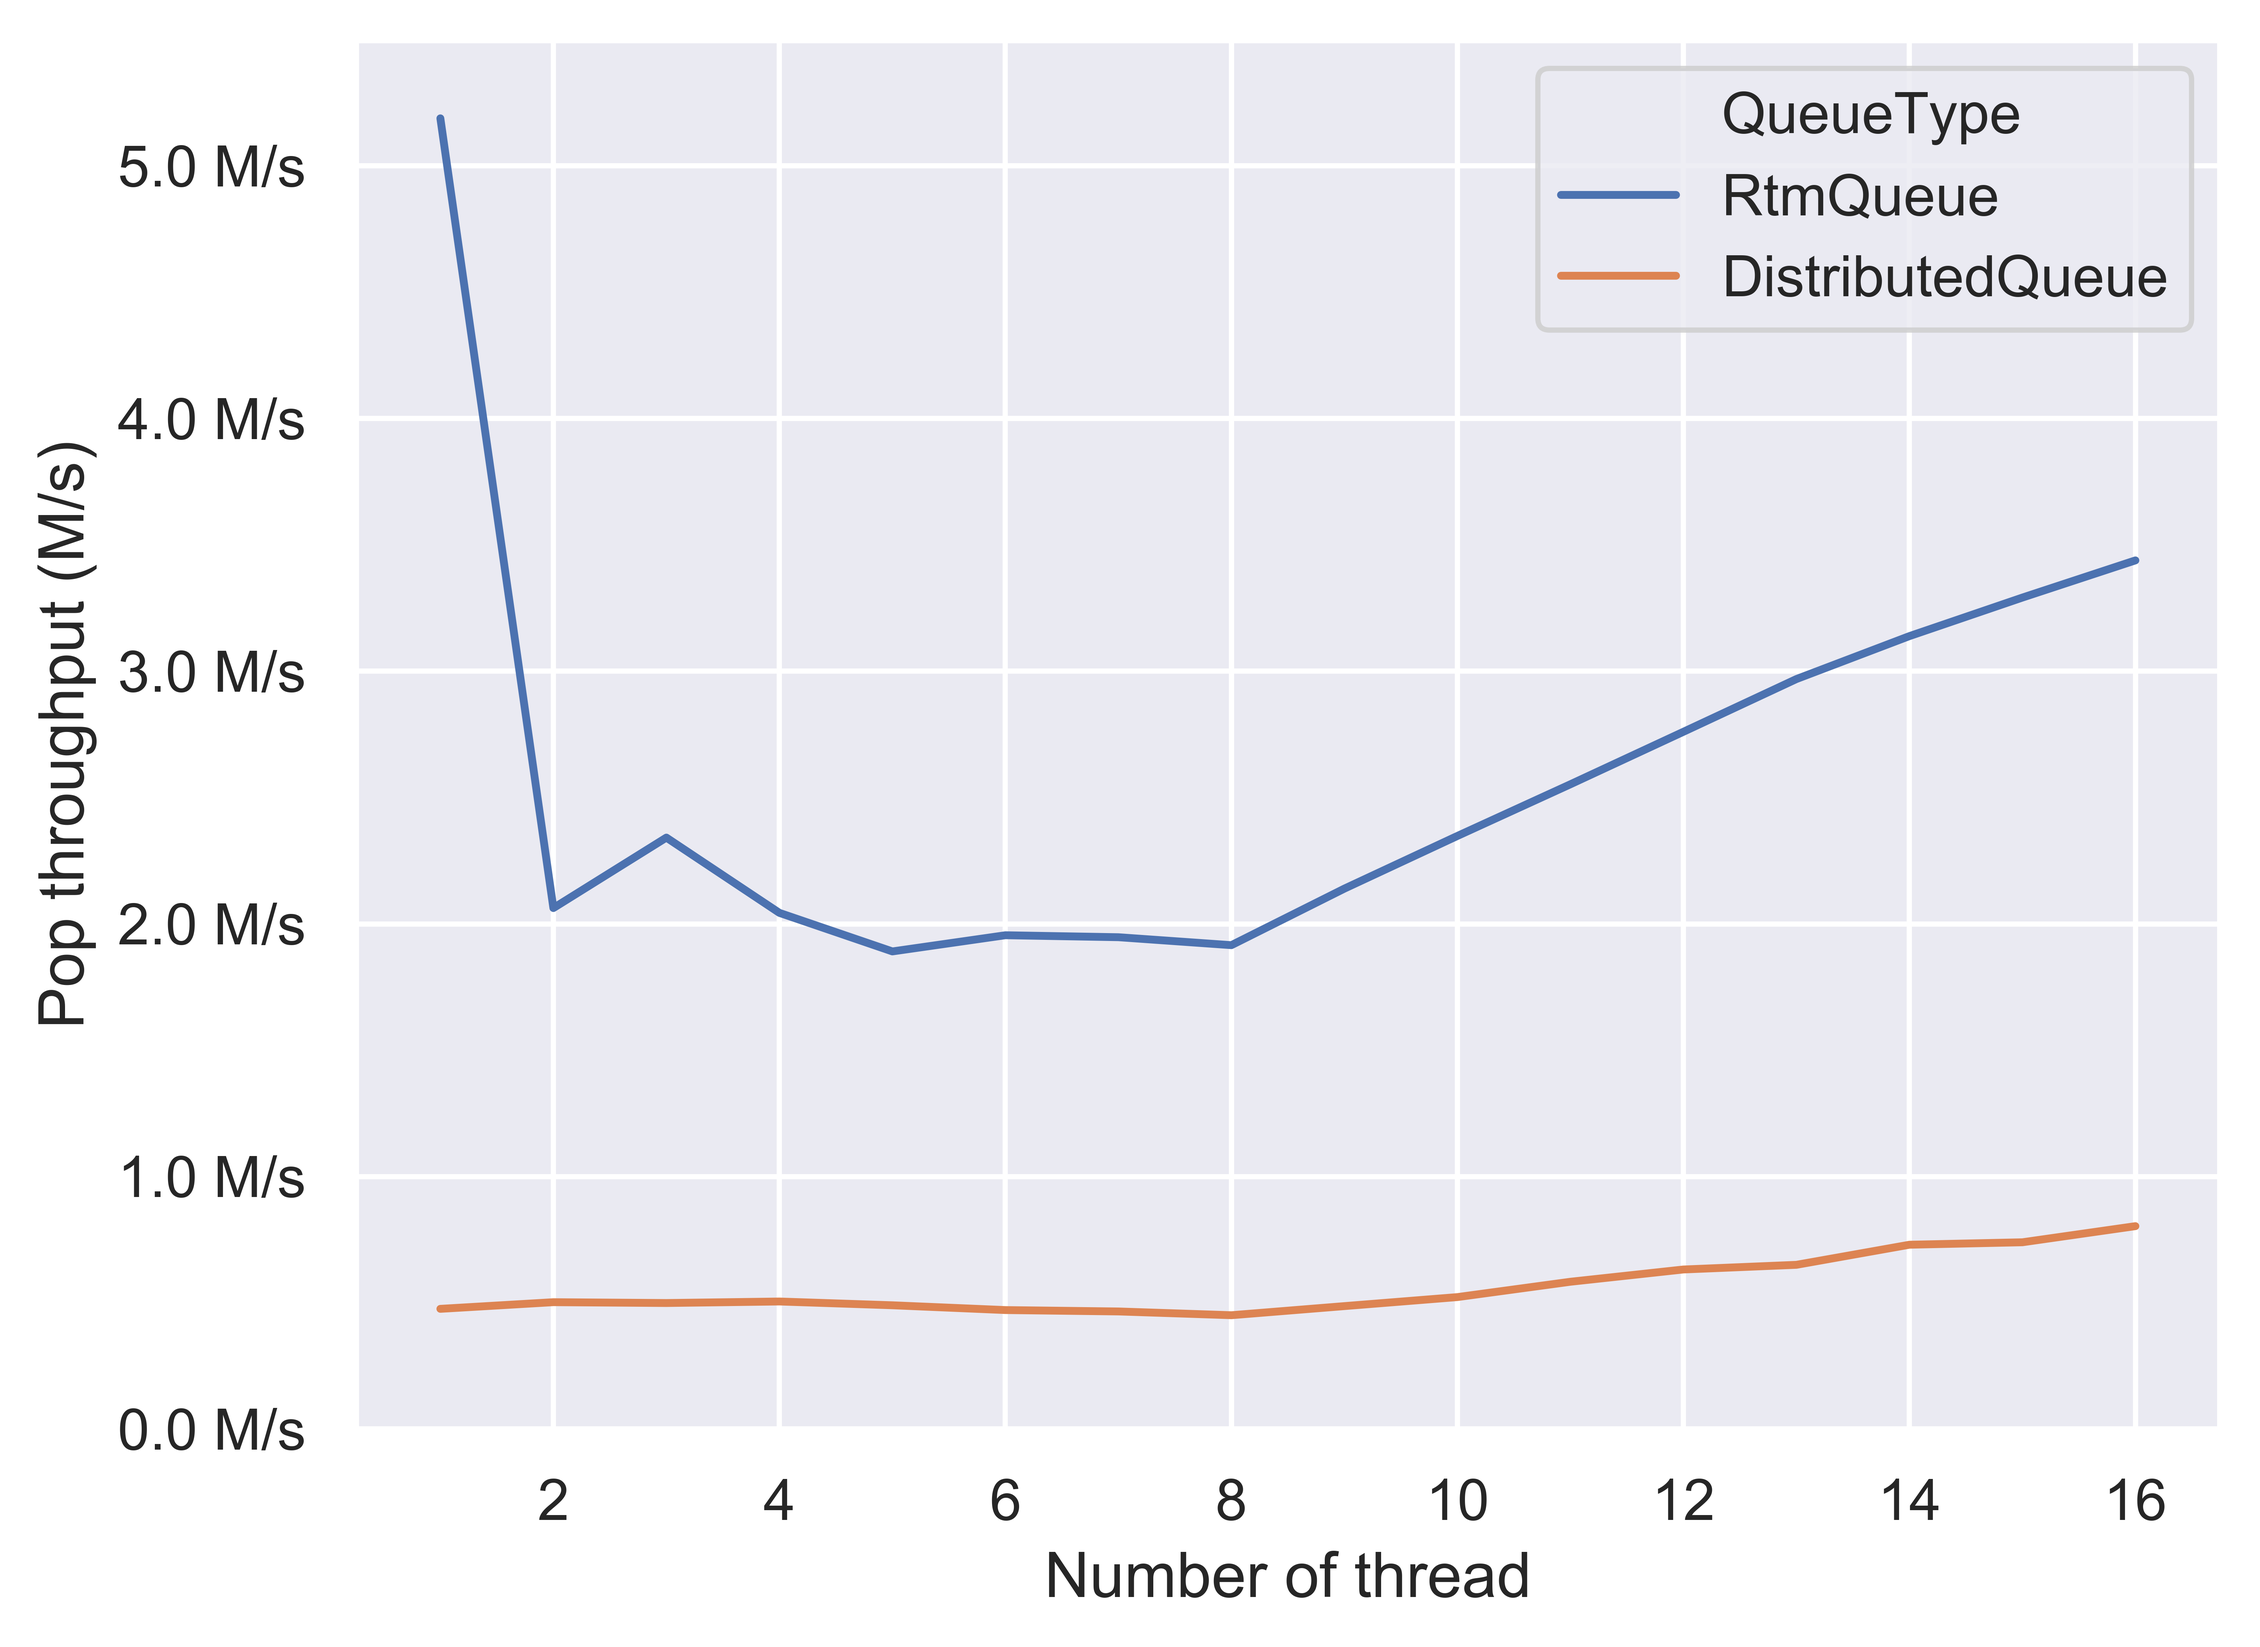
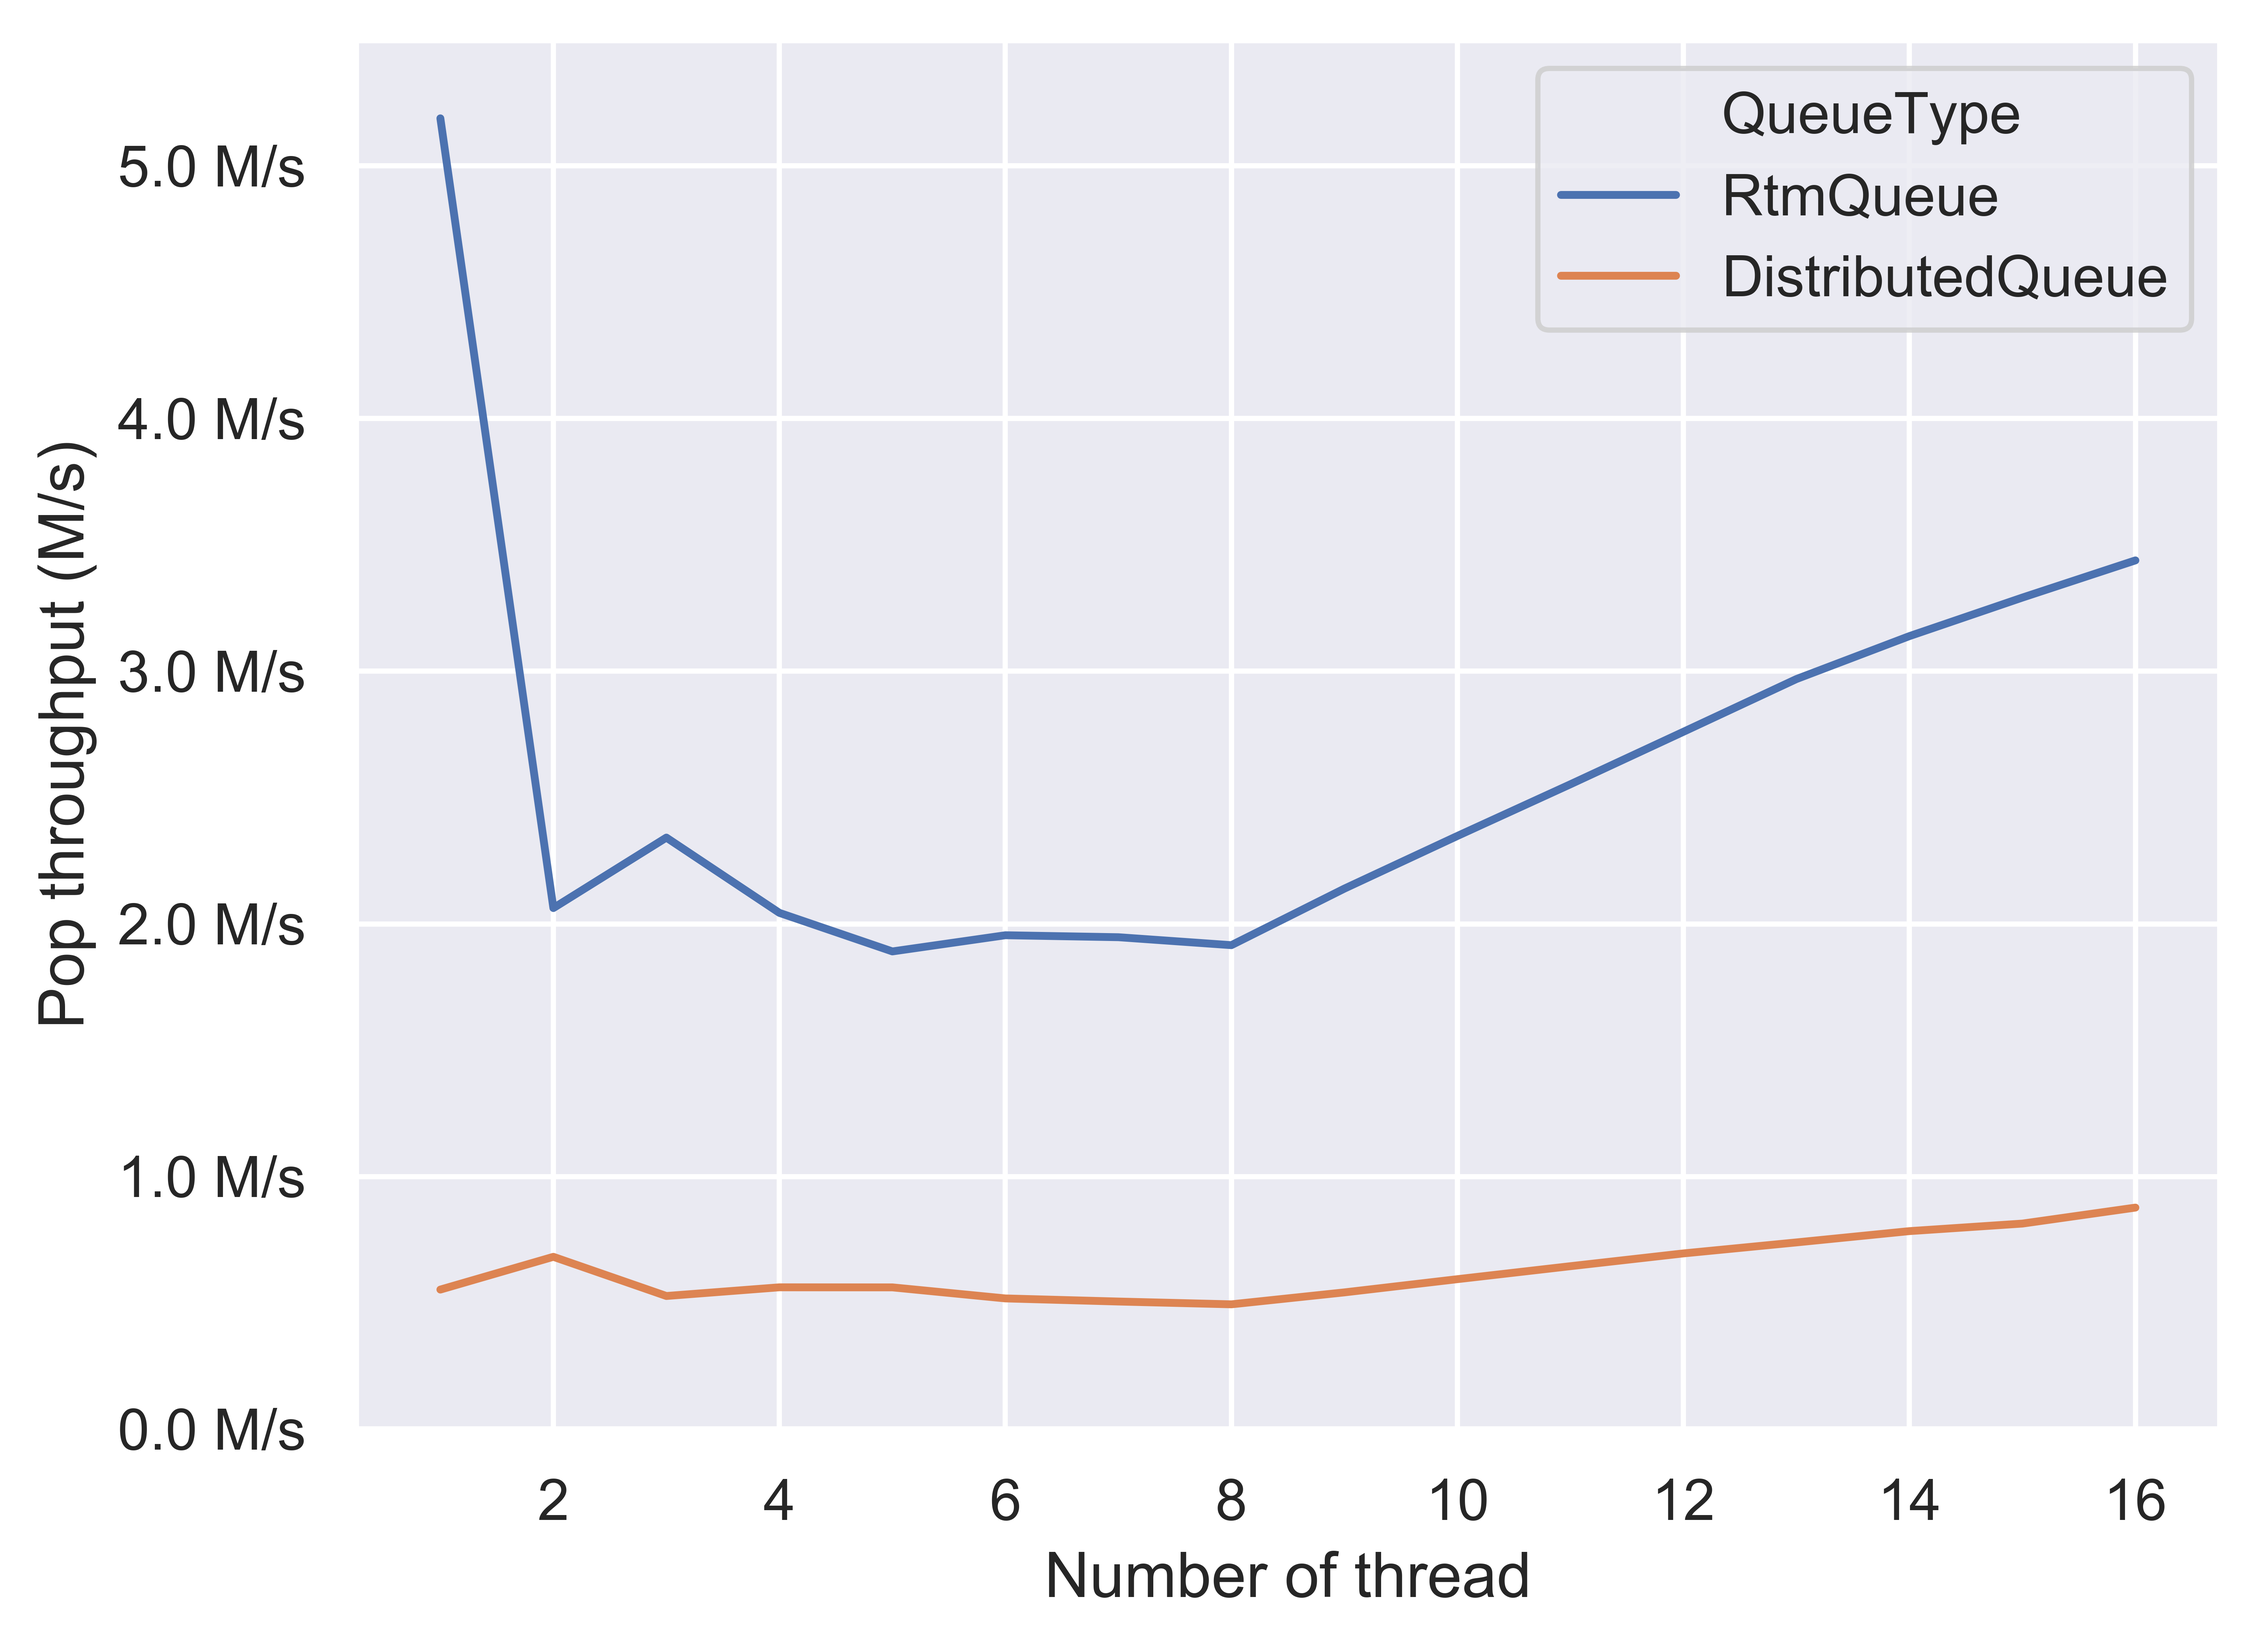
update final report

Changed region(s): [[0.1866, 0.714, 0.9331, 0.8071]]

diff --git a/doc/final.md b/doc/final.md
@@ -2,11 +2,64 @@ Project URL: [`https://flowersh0026.github.io/618-final/`](https://flowersh0026.
 
 # Summary
 
+We implemented four versions of concurrent dynamic sized FIFO queue including
+coarse-grained lock version, fine-grained lock version, lock-free (CAS-based)
+version and transactional memory (RTM-based) version, compared the performance
+of the four implementations and analyzed the results. We further studied possible
+designs of distributed queue, implemented a simple version locally and compared
+its performance with centralized version.
+
 
 # Background
 
+Dynamic sized queue is a commonly used basic data structure. A concurrent multiple
+producer multiple consumer queue can be useful in many parallel scenarios.
+There are three base operations for a FIFO queue including push, pop and front.
+All of the base operations can be done in O(1). Push and pop would modify the
+queue by inserting/removing elements to/from tail/head, while top will only do
+a read operation on the head.
+
+In this project, we studied how different methods of synchronization influence
+the performance of a concurrent dynamic sized queue. We only studied the push
+and pop operations, because the top operation is relatively trivial and does not
+impose challenge on synchronization. We tested the correctness on push and pop
+operations and benchmarked the throughput (items per second) on push and pop
+operations. The details of test and benchmark will be described further in the
+results section.
+
+In addition to a centralized queue, under scenarios that the queue needs to
+serve large amount of works, distributed queue could help a lot when single
+machine could not hold all the data. We explored possible designs (structures)
+of a distributed queue as an extension to centralized queue.
+
 
 # Approach
+
+## Technologies
+
+We mainly use the GHC machines as our development platform, and we use C++ as
+the main programming language. C++ provides good zero-cost abstractions that
+allow us to implement complicated data structures with less efforts, and it also
+gives us full control on the platform and runtime.
+
+## Parallization
+
+The concurrent queue structure is inherently closely related to parallization.
+Both our tests and benchmarks are building on a Multiple Producer Multiple
+Consumer (MPMC) framework that we set up, which parallized to perform push and
+pop operations on the queue. The benchmark library we used will spawn threads
+and the spawned threads will perform the task of pushing or poping as we assigned.
+Further details of how experiments are set up could be found in results section
+below.
+
+
+## Optimization Steps
+
+We started with simple initial version of implementations. After benchmarking
+and analyzing the performance of initial implementations, we try to optimize the
+implementation in two aspects including using a better memory allocator 
+(jemalloc [3]) and conducing cache line alignment on variables to avoid false
+sharing. Further details could be found in the results section below.
 
 
 # Results
@@ -226,6 +279,49 @@ implementing a fixed-size memory pool to further improve the performance.
 
 ## Distributed Extension
 
+Beyond the study of synchronization on a FIFO queue on a single machine, we
+extended the project to further explore queue on distributed systems. Throughout
+our study, we mainly learnt about two possible structures as shown below.
+
+![Distributed Queue Structure Figure 1](../result/dq_1.png)
+![Distributed Queue Structure Figure 2](../result/dq_2.png)
+
+The first one, shown in Figure 1, has the client contacted to the centralized
+server, which controls the whole distributed set of queues as well as load
+balancing. The other one is more distributed as shown in Figure 2. Although the 
+centralized server will still controls the load balancing of all sub queues and
+be responsible for push, each client will pop out from a sub server it connected
+to. Due to time limitation, we only designed the interface and completed a
+localized version implementation for the first structure. A lock is used in the
+centralized server for synchronization. Each sub-queue server maintains an
+RTM-based queue. 
+
+Since we implemented it locally and the queue is eventually running on a single
+machine instead of a real distributed system, we evaluate our implementation on
+the extra contention added by the centralized server and the load balancing. The
+load balancing policy we used is simply Round Robin because there is no network
+load variance in the test. The benchmark framework used in this section is
+identical to the one mentioned above. Since a RTM-based queue is used in each
+sub-queue server, we compared the benchmark result of distributed queue with
+the benchmark result of RTM-based queue. The comparison is shown below.
+
+![Performance comparison on push throughput.](../result/compdistributed_push_throughput.png)
+![Performance comparison on pop throughput.](../result/compdistributed_pop_throughput.png)
+
+For both push and pop performance, in the low-contention region (thread = 1),
+since we used a coarse-grained lock in the centralized server, the distributed
+queue does not outperform as RTM-based queue does. The trending shape of
+distributed queue is indeed similar to that of coarsed-grained lock queue. To
+further improve (i.e. decrease contention cost), a fine-grained lock or a lock-
+free design should be used in the centralized server. Nevertheless, more or less,
+the centralized server would bring in an additional synchronization cost which
+could not be avoided.
+
+However, for a distributed queue run a real distributed system over network, we
+believe that the network communication costs are likely to overweight the
+synchronization cost on each single server.
+
+
 
 
 # References
@@ -258,4 +354,17 @@ List of Jiaan's work:
     9. Benchmark and analysis (cooperate)
     10. Final report (cooperate)
     11. Poster (cooperate)
+
+
+List of Yunjia's work:
+    1. Coarse-grained lock queue
+    2. Intial implementation of lock-free (CAS-based) queue
+    3. Benchmark design and analysis (cooperate)
+    4. Distributed queue structure study and design (cooperate)
+    5. Distributed queue implementation
+    6. Proposal writeup (cooperate)
+    7. Final report writeup (cooperate)
+    8. Poster (cooperate)
+
+Distribution: 60%-40% ?
 -->
